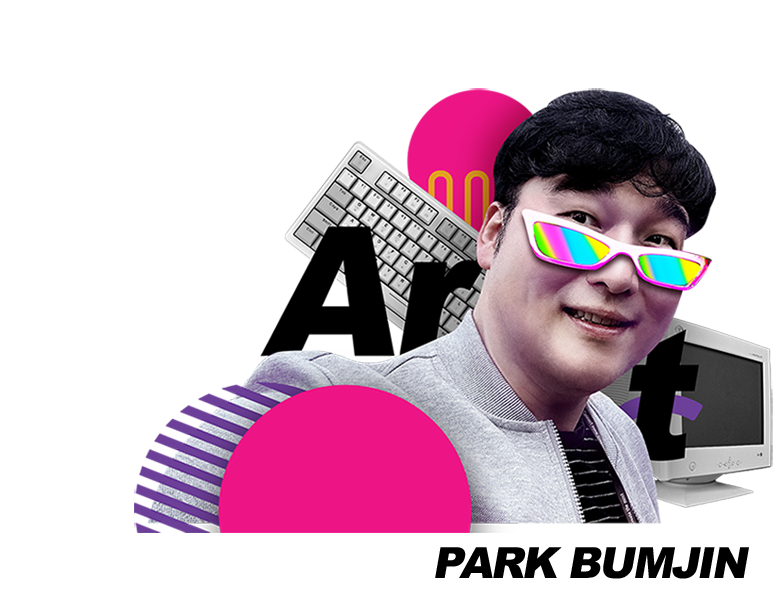
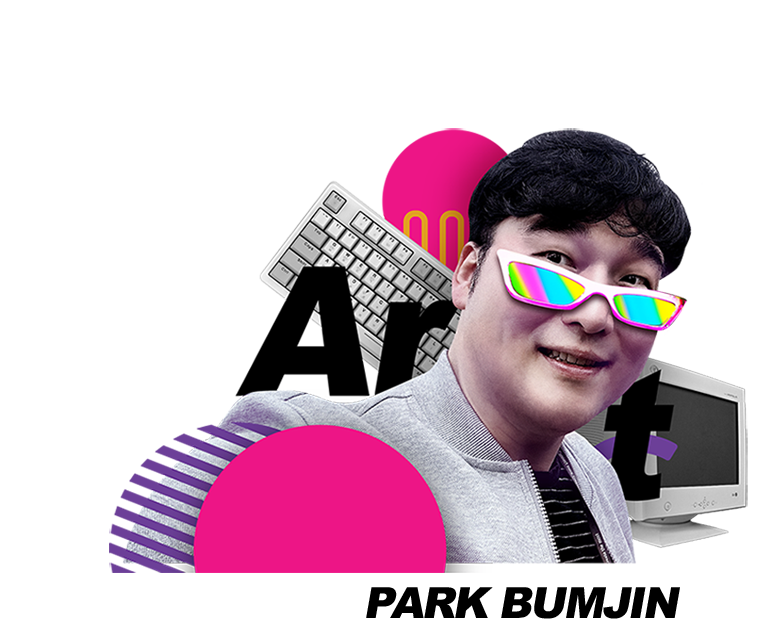
250124-4

diff --git a/index.html b/index.html
@@ -1,11 +1,11 @@
 <!DOCTYPE html>
 <html lang="ko">
     <head>
-        <title>PORTFOLIO-CanvaStage</title>
+        <title>PORTFOLIO-Canvastage</title>
         <meta charset="utf-8">
         <meta name="viewport" content="width=device-width, initial-scale=1.0">
         <meta name="description" 
-        content="ART PORTFOLIO, CanvaStage...하얀 Canvas에 그려나가다!">
+        content="ART PORTFOLIO, Canvastage...하얀 Canvas에 그려나가다!">
         <link rel="stylesheet" href="./index.css">
     </head>
     <body>
@@ -23,6 +23,16 @@
                     광고, 영상, 그래픽, 편집 등 
                     어떤 영역에서도 겁 없는 태도로 
                     결과물을 만들어냈습니다!
+                </div>
+            </div>
+            <div id="mainbody3">
+                <div id="copy5">
+                    2024.11~2015.4<br> 
+                    시니어 아트로 지면촬영 디렉팅 및 신문, 포스터, 카다로그 등의 아트웍 및 제작 역량을 보여주었고,
+                    20년부터 올컴에서 아트디렉터로 3H지압침대 CM을 비롯 통합마케팅 제작진행을 해왔고, 
+                    나노CMS CM유치 및 한솔 홈데코 바이럴필름을 성공적으로 제작, 
+                    한솔홈데코는 유튜브 채널 운영을 하였습니다.
+                    이 기간 팀리더로 효과적인 디렉팅과 실행력을 보여주었습니다.
                 </div>
             </div>
     </div>

diff --git a/index.css b/index.css
@@ -23,7 +23,10 @@ body{
 #maintitle{
     padding-top: 10px;
     padding-bottom: 10px;
-    margin: 3%;
+    margin-top: 3%;
+    margin-bottom: 3%;
+    margin-left: 6%;
+    margin-right: 6%;
     border: 1px solid black;
     border-radius: 15px;
     display: flex;
@@ -52,28 +55,43 @@ body{
     justify-content: right;
 }
 #mainbody1{
+    margin-bottom: 3%;
     background-image: url(./source/canvastage4.png);
     background-size: contain;
     background-repeat: no-repeat;
     background-position: center;
 }
 #copy3{
-    width: 55%;
-    margin-left: 10%;
-    height: 600px;
+    width: 58%;
+    margin-left: 12%;
+    height: 640px;
     font-size: 1.3rem;
-    line-height: 2rem;
+    line-height: 2.2rem;
+}
+#copy5{
+    margin-left: 12%;
+    margin-right: 12%;
+    margin-bottom: 3%;
+    font-size: 1.15rem;
+    line-height: 1.9rem;
+    text-align: justify;
 }
 @media (max-width:750px) {
     #container{
         width: 100%;
     }
+    #mainbody1{
+        background-position: bottom;
+    }
     #copy3{
-        width: 82%;
-        margin-left: 9%;
-        height: 380px;
+        width: 76%;
+        height: 355px;
         text-align: justify;
         font-size: 1.12rem;
+        line-height: 1.9rem;
+    } 
+    #copy5{
+        font-size: 1.1rem;
         line-height: 1.7rem;
-    }    
+    }   
 }
